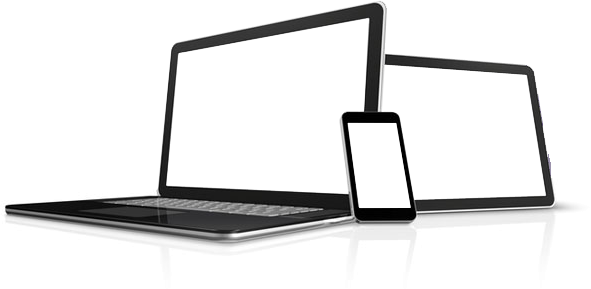
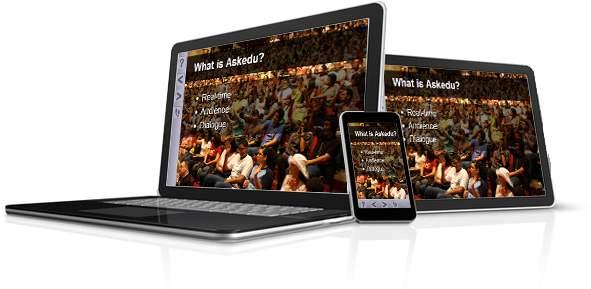
Re-re-branding, and new slides look and feel

Changed region(s): [[0.2741, 0.0623, 0.9442, 0.7474]]

diff --git a/public/deck.css b/public/deck.css
@@ -12,18 +12,24 @@ body, textarea {
 }
 
 h2 {
-    margin: 0.5em 0 0 0;
     font-size: 1.3em;
     white-space: nowrap;
-    
+    background: url(/double-shade.png);
+    margin: 0.5em 0;
+    padding: 0.5em 1em;
+    text-shadow: 0.1em 0.1em #000;
 }
 
 li {
     line-height: 1.5em;
 }
 
-ol, ul {
+ol, ul, p {
     margin-left: 1em;
+    background: url(/shade.png);
+    margin: 0;
+    padding: 0.5em 1em 0.5em 3em;
+    text-shadow: 0.1em 0.1em #000;
 }
 
 #menu {
@@ -52,15 +58,16 @@ ol, ul {
     left: 1.6em;
     top: 0;
     bottom: 0;
-    width: 0;
+    right: 100%;
     border-right: 0.04em solid #667;
     z-index: 2;
     overflow: hidden;
-    transition: width 0.5s;
+    transition: right 0.2s;
+    display: none;
 }
 
 .menu-area.on {
-    width: 12em;
+    right: 0;
 }
 
 .menu-button {
@@ -94,7 +101,8 @@ ol, ul {
 #slides {
     position: absolute;
     z-index: 1;
-    background: #fff;
+    background: #000;
+    color: #fff;
     top: 0;
     bottom: 0;
     left: 1.6em;
@@ -103,10 +111,25 @@ ol, ul {
 
 .slide {
     position: absolute;
+    left: 0;
     top: 0;
+    width: 100%;
     opacity: 0;
     display: none;
     transition: opacity 0.5s;
+    z-index: 3;
+}
+
+.bg {
+    position: absolute;
+    left: 0;
+    top: 0;
+    opacity: 0;
+    transition: opacity 0.5s;
+    bottom: 0;
+    right: 0;
+    z-index: 2;
+    height: 15em;
 }
 
 .quiz ul {
@@ -136,7 +159,7 @@ ol, ul {
 
 #slide-area {
     position: relative;
-    margin-left: 1em;
+    padding-left: 1em;
 }
 
 .menu-pad {
@@ -177,7 +200,7 @@ ol, ul {
     float: left;
     padding: 0.1em;
     font-size: 0.8em;
-    border: 0.04em solid #999;
+    border: 0.05em solid #999;
     border-top-left-radius: 0.5em;
     border-top-right-radius: 0.5em;
     border-bottom: 0;
@@ -218,15 +241,15 @@ ol, ul {
         left: 0;
         right: 0;
         width: 100%;
-        top: auto;
-        bottom: 0;
-        height: 0;
+        top: 100%;
+        bottom: 1.6em;
         border-top: 0.04em solid #667;
-        transition: height 0.5s;
+        transition: top 0.2s;
     }
 
     .menu-area.on {
-        height: 8em;
+        top: 0;
+        width: 100%;
     }
 
     .menu-button {
@@ -235,10 +258,7 @@ ol, ul {
     }
 
     #slides {
-        position: absolute;
-        top: 0;
-        bottom: 0;
-        left: 1.6em;
-        right: 0;
+        bottom: 1.6em;
+        left: 0;
     }
 }

diff --git a/public/deck.js b/public/deck.js
@@ -1,10 +1,22 @@
 var onResize = function () {
     var w = $(window).height();
     var h = $(window).width();
-    var s = Math.min(w / 12, h / 9);
+    var s = Math.min(w / 15, h / 9);
     $('body').css('fontSize', s + 'px');
     $('textarea').css('fontSize', (s * 0.8) + 'px');
 };
+
+$('img.bg').each(function () {
+    var bg = this;
+    var parent = bg.parentNode;
+    parent.bg = bg;
+    $bg = $(bg);
+    $bg.insertBefore(parent);
+});
+
+//$('h2').wrap('<div style="background:url(/double-shade.png);width:100%;"/>');
+//$('ol,dl').wrap('<div style="background:url(/shade.png);width:100%;"/>');
+
 var userId = document.cookie.split('=')[1].toLowerCase();
 
 // Replaces quiz slides with input fields
@@ -34,9 +46,10 @@ var moveTo = function (index) {
     if (index != currentIndex) {
         var previous = $slides[currentIndex];
         if (previous) {
-            $(previous).css('opacity', 0);
+            var $previous = $(previous).add(previous.bg);
+            $previous.css('opacity', 0);
             previous.t = setTimeout(function () {
-                $(previous).hide();
+                $previous.hide();
             }, 500);
         }
         currentIndex = index * 1;
@@ -49,7 +62,7 @@ var moveTo = function (index) {
         }
         var current = $slides[currentIndex];
         clearTimeout(current.t);
-        $(current).show().css('opacity', 1);
+        $(current).add(current.bg).show().css('opacity', 1);
     }
 };
 
@@ -78,7 +91,19 @@ $('#resume').click(function () {
 });
 
 $('#questions').click(function () {
-    $('#questions-area').toggleClass('on');
+    var $area = $('#questions-area');
+    var area = $area[0];
+    if ($area.hasClass('on')) {
+        area.t = setTimeout(function () {
+            $area.hide();
+        }, 500);
+    } else {
+        clearTimeout(area.t);
+        $area.show();
+    }
+    setTimeout(function () {
+        $area.toggleClass('on');
+    }, 5);
 });
 
 // Will go at own pace or follow the instructor
